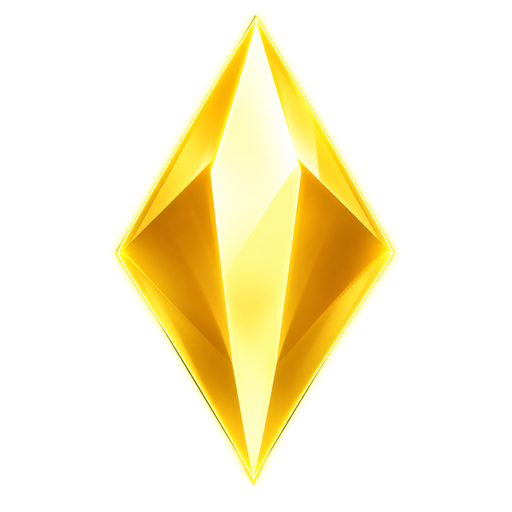
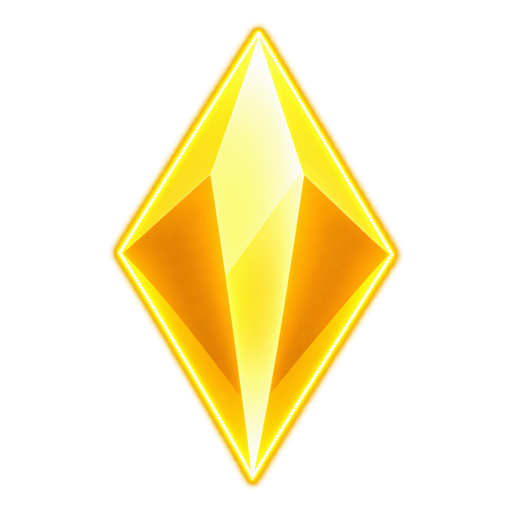
feat(assets): simplify reactor obstacle and shard visuals

Changed region(s): [[0.2188, 0.0312, 0.7812, 0.9688]]

diff --git a/tests/approvedVisualAssets.test.ts b/tests/approvedVisualAssets.test.ts
@@ -5,10 +5,10 @@ import test from 'node:test';
 
 const approvedAssets = {
   'space-background.webp': '9c96bdbba81444760ec13ddc3e3fdc1a9341dbcc',
-  'reactor.webp': '1e2ab15f7a80ba469da257df3503cd266aa0436b',
+  'reactor.webp': 'd358247bfb4dc631fbcd8b3e6a775512497a23e1',
   'player-simple.webp': '07623830073623ac4b944f87f0772f525da115fd',
-  'obstacle.webp': '8ab27cdc8137026ec3316999a8eea008039d5ad2',
-  'shard.webp': '0213be521b12aba4b967e25041fb68a87c2b9b1e',
+  'obstacle.webp': '506bc4c919e59e6aa14f75c00ac177cfaebcef0f',
+  'shard.webp': '702e56e667622e8b590dab54a45455f7031a9f73',
 } as const;
 
 for (const [name, expectedSha] of Object.entries(approvedAssets)) {
